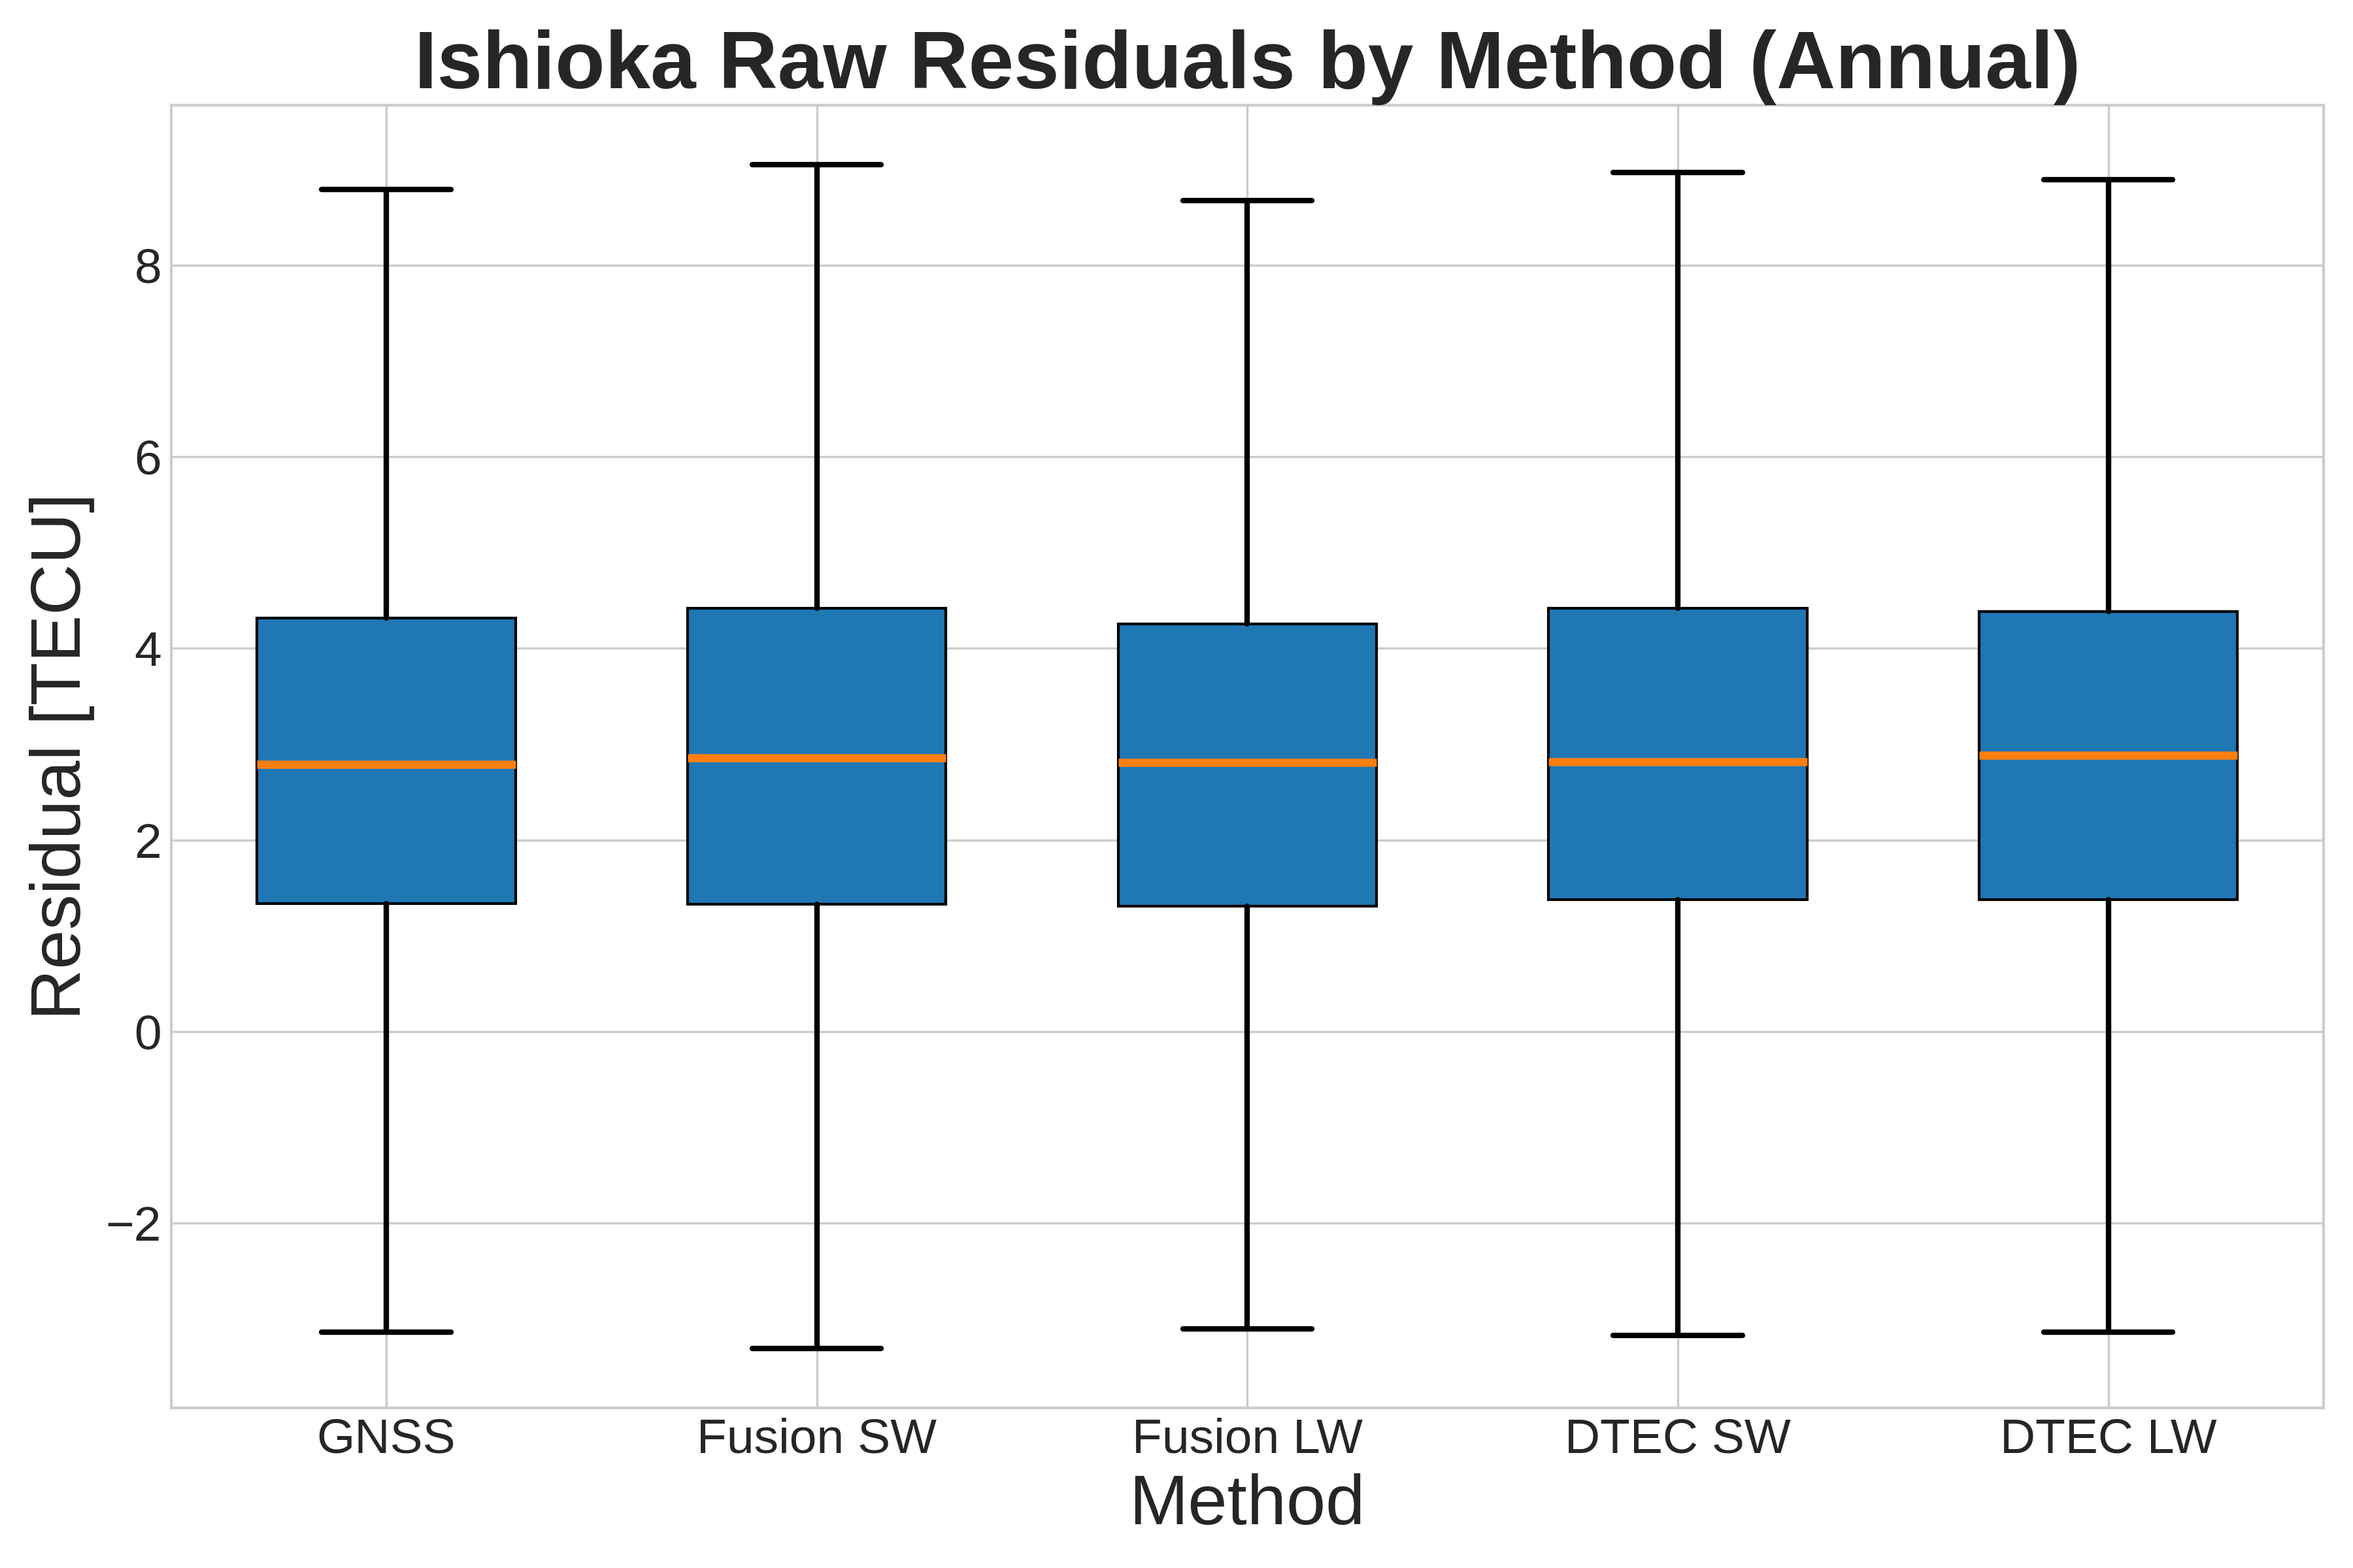
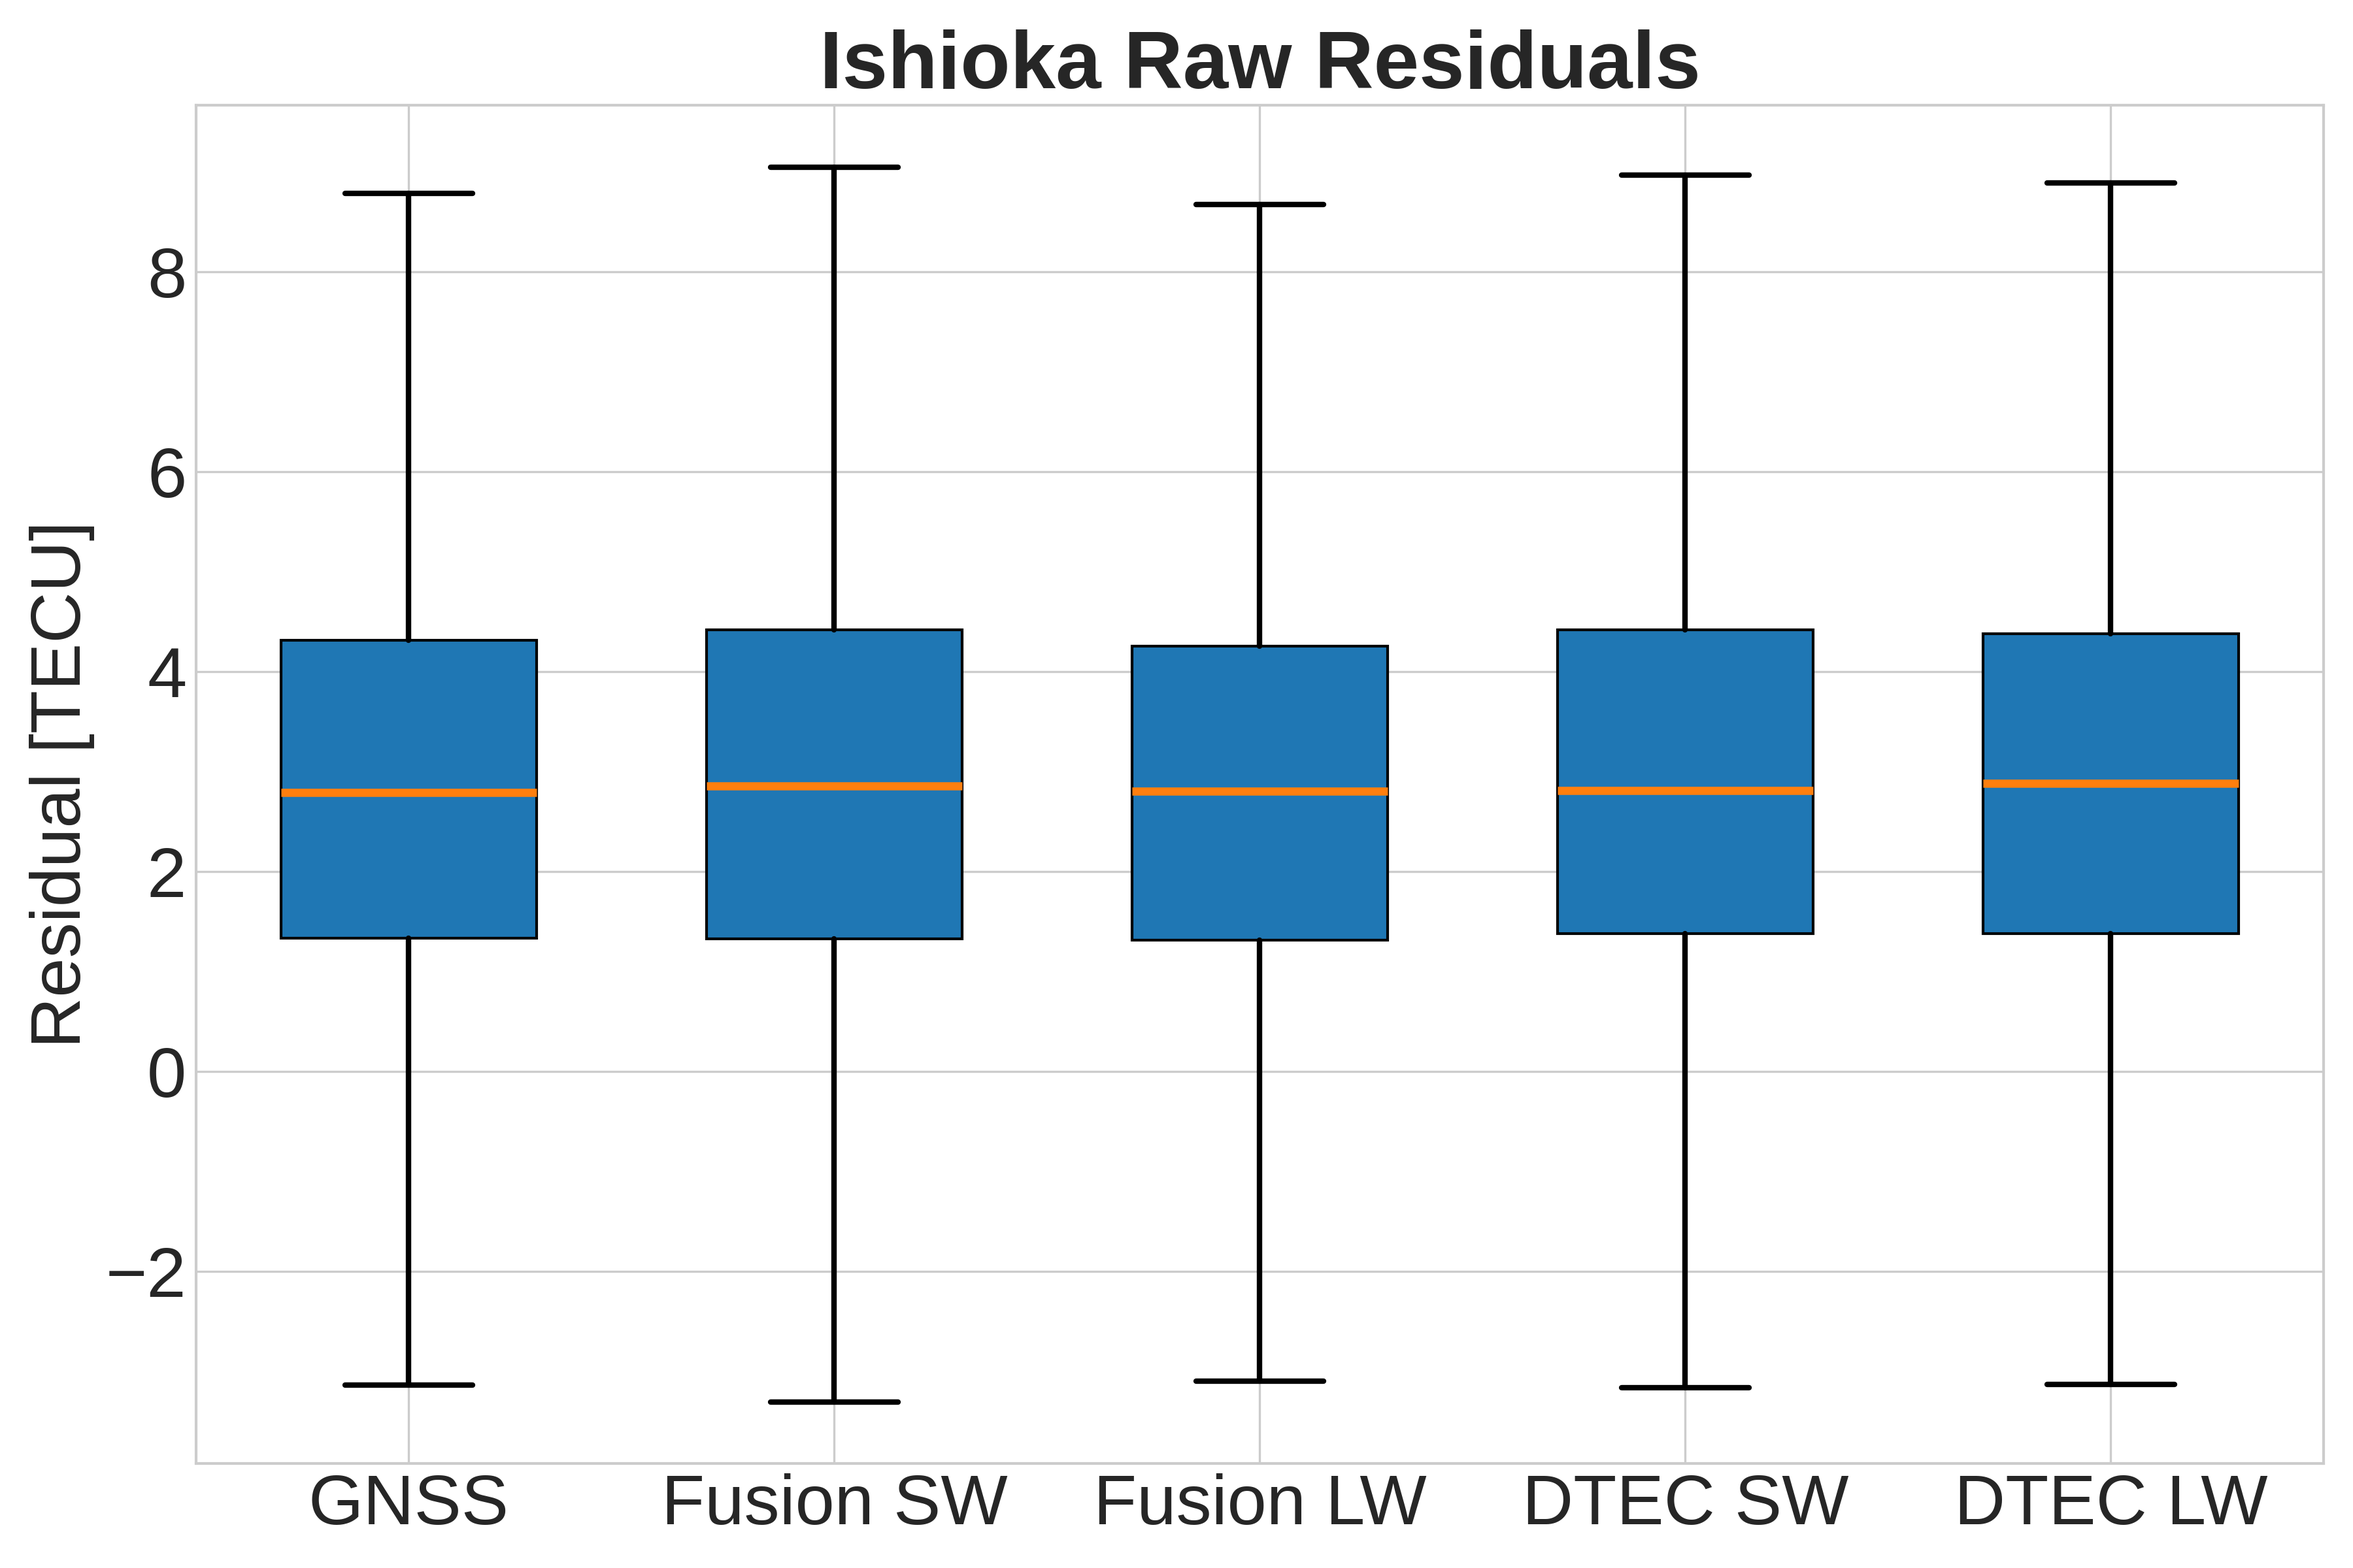
updated plots

diff --git a/scripts/eval_SA_results_new.py b/scripts/eval_SA_results_new.py
@@ -263,9 +263,11 @@ def plot_global_annual_box(df_global_all, out_dir='evaluation/global_annual_boxp
     os.makedirs(out_dir, exist_ok=True)
     corrections = [
         ('residuals_raw',       'Raw'),
-        ('residuals_bc_global', 'Global BC'),
-        ('residuals_bc_local',  'Local BC')
+        ('residuals_bc_global', 'Global Bias Corrected'),
+        ('residuals_bc_local',  'Local Bias Corrected')
     ]
+
+    median_values = {}  # Dictionary to store median values
 
     for col, label in corrections:
         if col not in df_global_all.columns:
@@ -304,6 +306,7 @@ def plot_global_annual_box(df_global_all, out_dir='evaluation/global_annual_boxp
         )
 
         # now draw your full-width orange median
+        medians = []
         for box, median in zip(bp['boxes'], bp['medians']):
             verts = box.get_path().vertices
             x0, x1 = verts[:,0].min(), verts[:,0].max()
@@ -311,24 +314,35 @@ def plot_global_annual_box(df_global_all, out_dir='evaluation/global_annual_boxp
             median.set_xdata([x0, x1])
             median.set_ydata([y,  y])
             median.set(color='tab:orange', linewidth=3)
+            medians.append(y)  # Store the median value
 
-        ax.set_title(f'Global {label} Residuals by Method (Annual)', fontsize=30, weight='bold')
-        ax.set_xlabel('Method', fontsize=26)
+        # Store median values for the current correction
+        median_values[label] = medians
+
+        #ax.set_xlabel('Method', fontsize=26)
         ax.set_ylabel('Residual [TECU]', fontsize=26)
-        plt.xticks(rotation=0, ha='center', fontsize=18)
-        plt.yticks(fontsize=18)
-        plt.tight_layout()
+        plt.xticks(rotation=0, ha='center', fontsize=26)
+        plt.yticks(fontsize=26)
 
-        fname = f'global_{label.lower().replace(" ","_")}_by_method.png'
+        plt.tight_layout()
+        fname = f'global_{label.lower().replace(" ","_")}_by_method_notitle.png'
         plt.savefig(os.path.join(out_dir, fname))
+        ax.set_title(f'Global {label} Residuals', fontsize=30, weight='bold')
+        plt.tight_layout()
+        fname = f'global_{label.lower().replace(" ","_")}_by_method.png'
+        plt.savefig(os.path.join(out_dir, fname), dpi=300)
         plt.close()
+
+    # Save median values to a CSV file
+    median_df = pd.DataFrame(median_values, index=METHOD_MAP.values())
+    median_df.to_csv(os.path.join(out_dir, 'global_median_values.csv'))
 
 
 def plot_station_annual_box(df_station_all, out_base='evaluation/annual_station_boxplots'):
     corrections = [
         ('residuals_raw',       'Raw'),
-        ('residuals_bc_global', 'Global BC'),
-        ('residuals_bc_local',  'Local BC')
+        ('residuals_bc_global', 'Global Bias Corrected'),
+        ('residuals_bc_local',  'Local Bias Corrected')
     ]
 
     # treat all stations as one combined if requested
@@ -389,16 +403,18 @@ def plot_station_annual_box(df_station_all, out_base='evaluation/annual_station_
 
             # labels & titles
             station_name = 'All Stations' if st=='all_stations' else st.capitalize()
-            ax.set_title(f'{station_name} {label} Residuals by Method (Annual)',
-                         fontsize=30, weight='bold')
-            ax.set_xlabel('Method', fontsize=26)
+            #ax.set_xlabel('Method', fontsize=26)
             ax.set_ylabel('Residual [TECU]', fontsize=26)
-            ax.tick_params(axis='x', labelsize=18, rotation=0)
-            ax.tick_params(axis='y', labelsize=18)
+            ax.tick_params(axis='x', labelsize=26)
+            ax.tick_params(axis='y', labelsize=26)
 
             plt.tight_layout()
-            fname = f'{st}_{label.lower().replace(" ","_")}_by_method.png'
+            fname = f'{st}_{label.lower().replace(" ","_")}_by_method_notitle.png'
             plt.savefig(os.path.join(out_dir, fname))
+            ax.set_title(f'{station_name} {label} Residuals', fontsize=30, weight='bold')
+            plt.tight_layout()
+            fname = f'{st}_{label.lower().replace(" ","_")}_by_method.png'
+            plt.savefig(os.path.join(out_dir, fname), dpi=300)
             plt.close()
 
 
